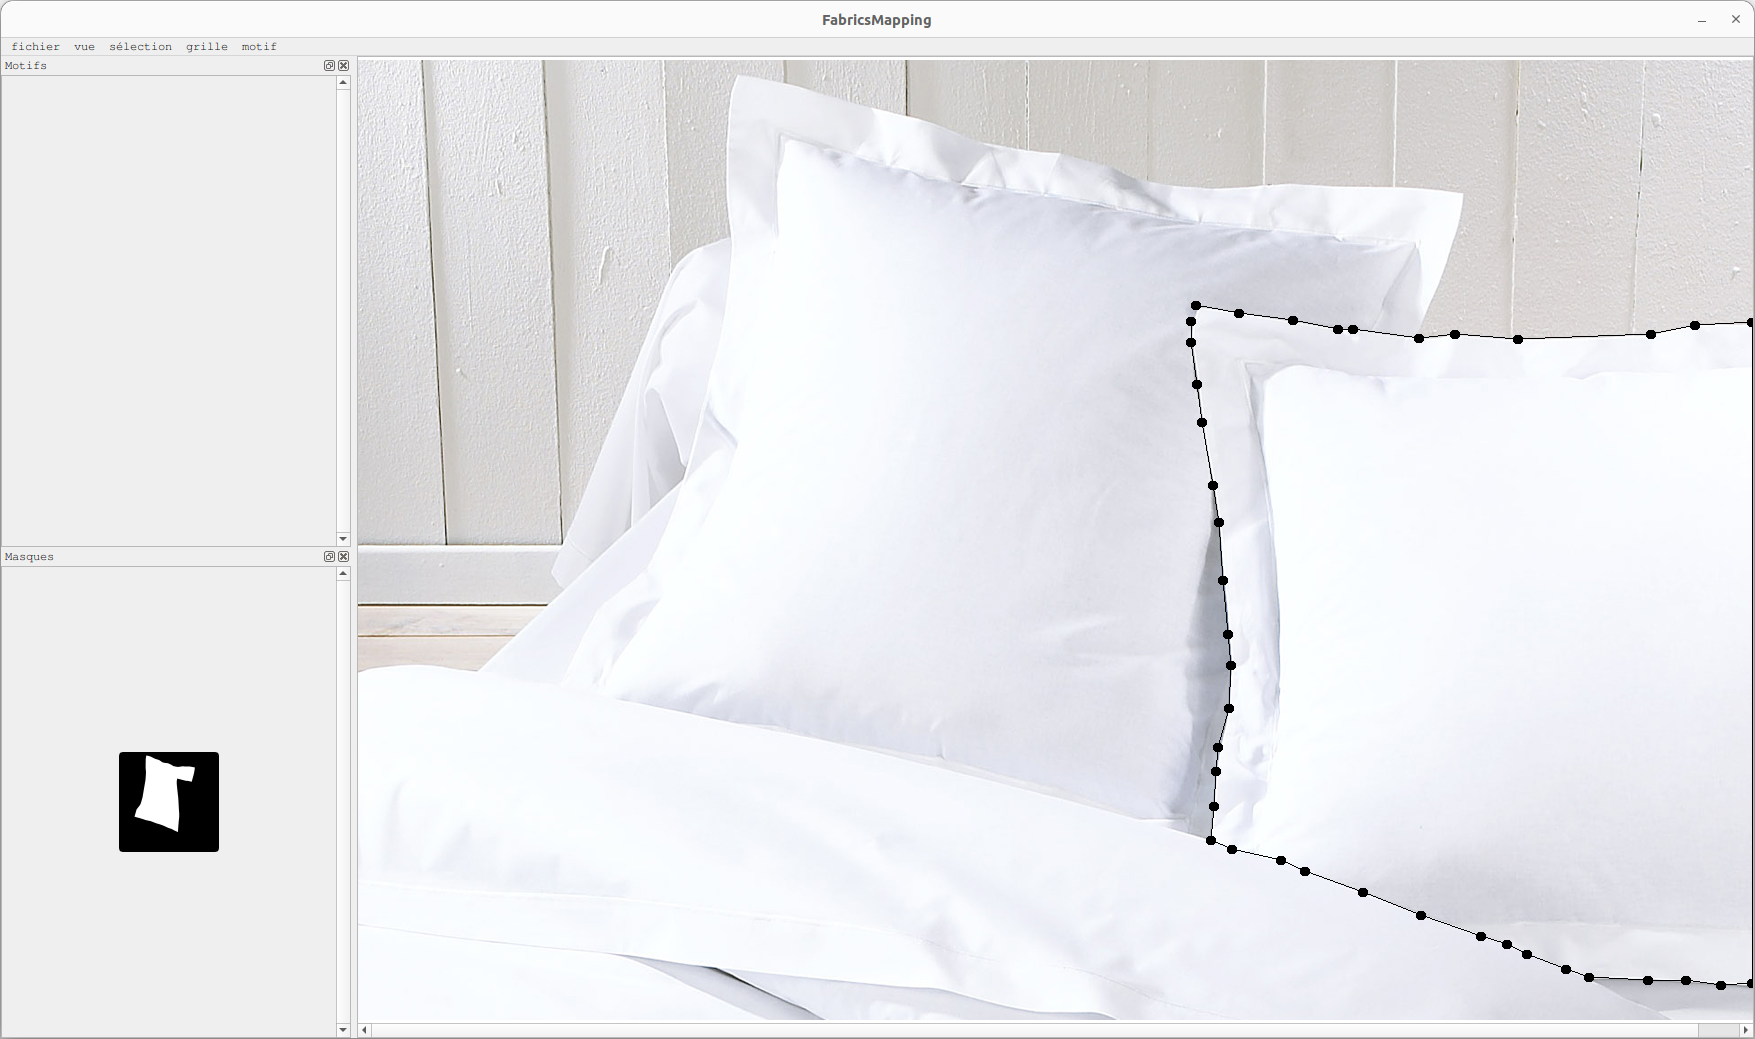
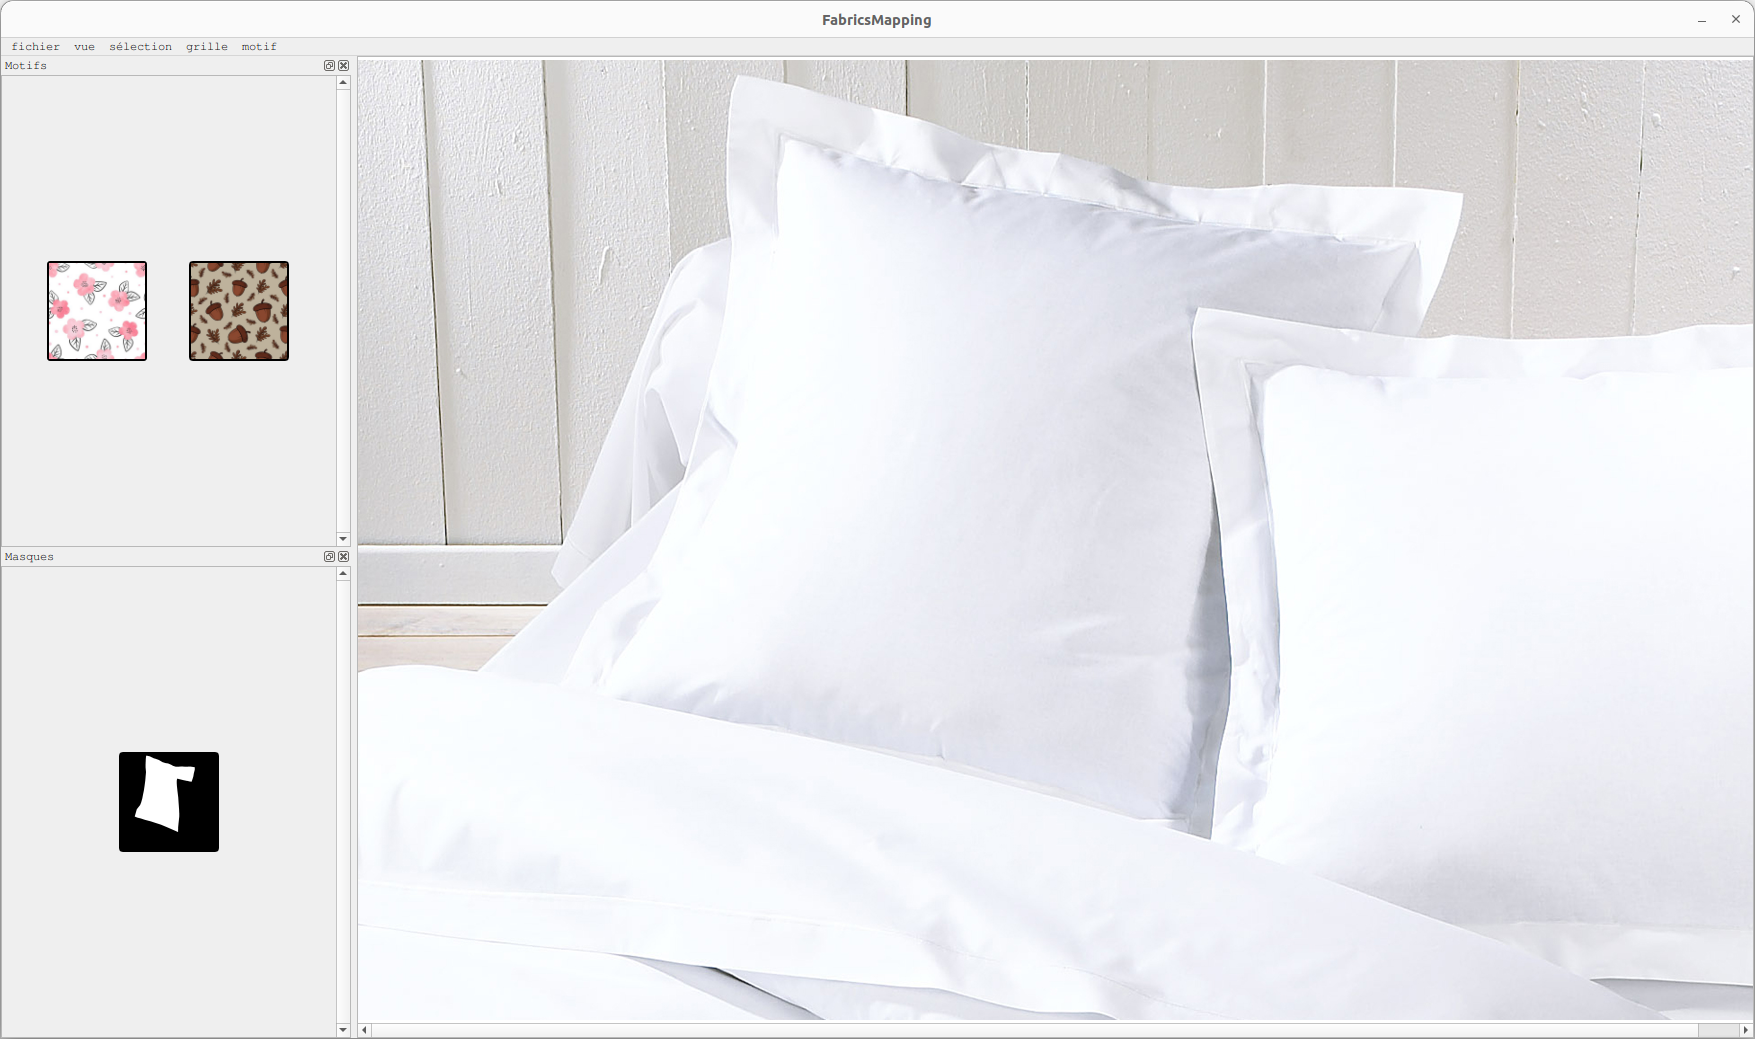
readme

diff --git a/README.md b/README.md
@@ -30,30 +30,26 @@ cmake -B build -S .
 
 <img alt="step2" src="imgs/step2.png"/>
 <br/>
-<img alt="step3" src="imgs/step3.png"/>
-<br/>
-<img alt="step4" src="imgs/step4.png"/>
-
 ### step 3 : Open some patterns
 
-<img alt="step5" src="imgs/step5.png"/>
+<img alt="step3" src="imgs/step3.png"/>
 
 ### step 4 : Create a grid
 
-<img alt="step6" src="imgs/step6.png"/>
+<img alt="step4" src="imgs/step4.png"/>
 
 ### step 5 : Move the grid control points around an object
 
-<img alt="step7" src="imgs/step7.png"/>
+<img alt="step5" src="imgs/step5.png"/>
 
 ### step 6 : Generate a bezier surface from the grid
 
-<img alt="step8" src="imgs/step8.png"/>
+<img alt="step6" src="imgs/step6.png"/>
 
 ### step 7 : Map the pattern on the bezier surface
 
-<img alt="step9" src="imgs/step9.png"/>
+<img alt="step7" src="imgs/step7.png"/>
 
-### step 8 : Hide the bezier surface and the grid from the view
+### step 8 : Hide the bezier surface
 
-<img alt="step10" src="imgs/step10.png"/>
+<img alt="step8" src="imgs/step8.png"/>
